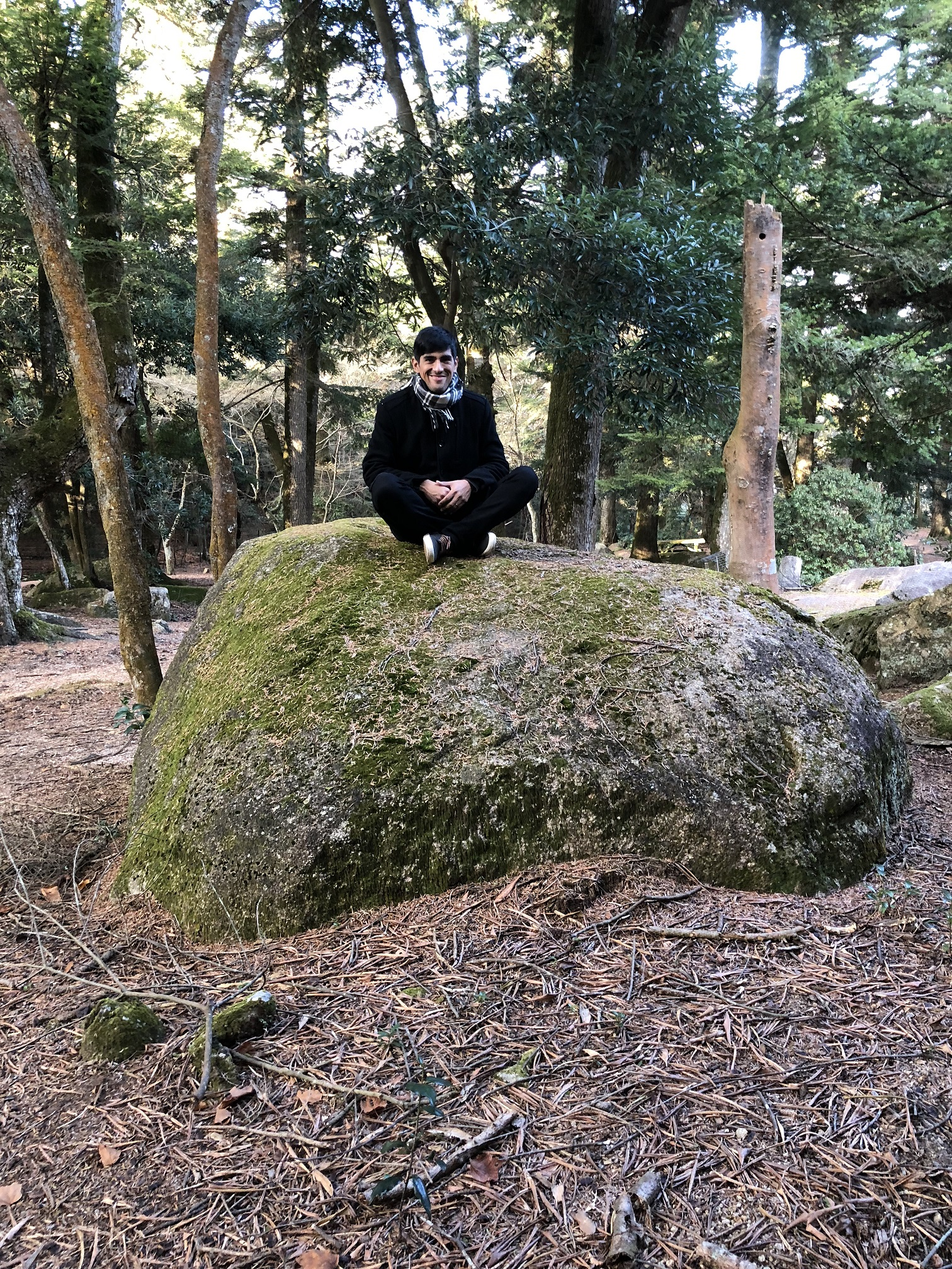
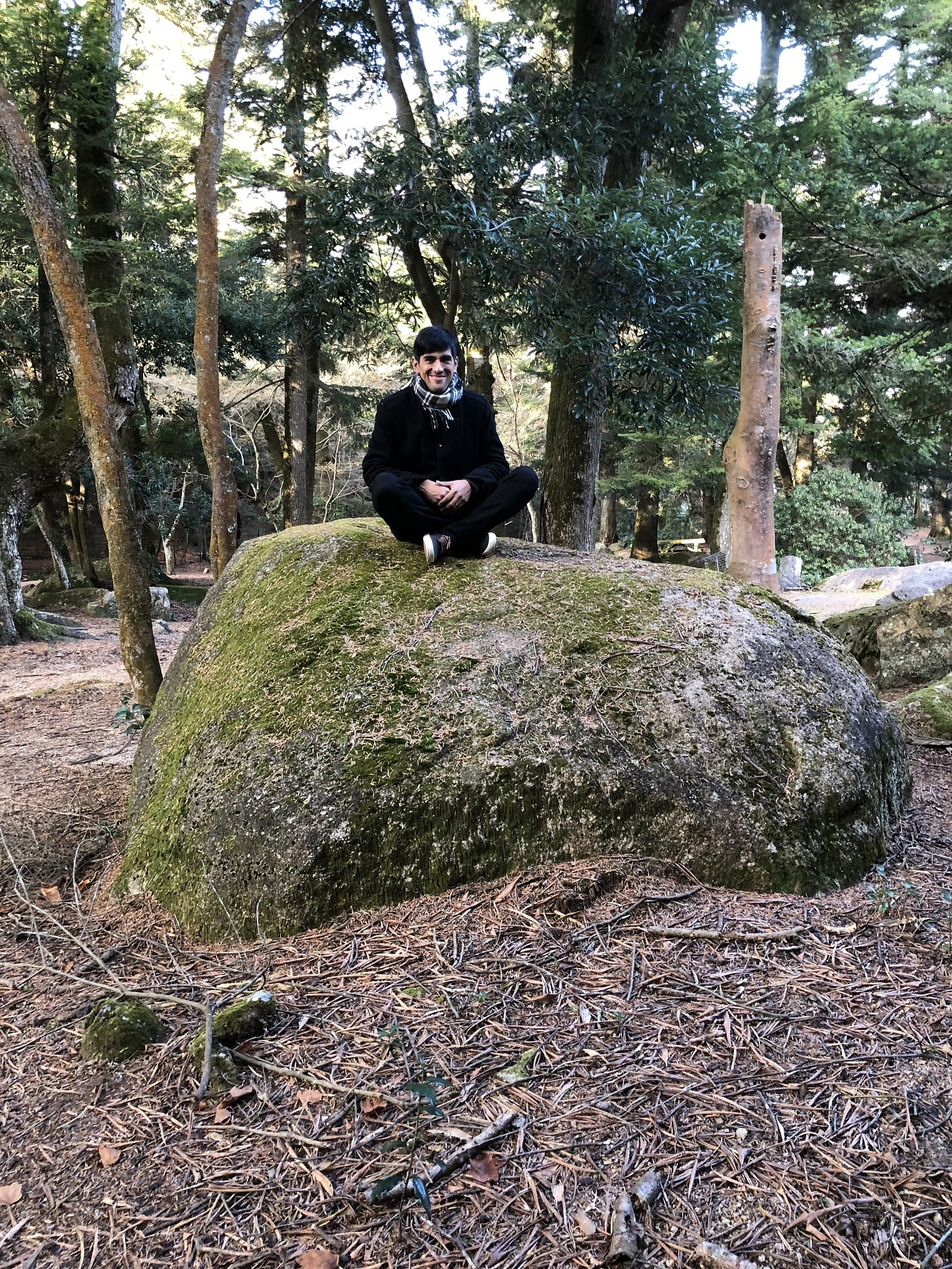
se baja calidad fotos

diff --git a/pages/ciudades_turisticas.html b/pages/ciudades_turisticas.html
@@ -123,7 +123,7 @@
             </section>
             <!------ mapa y video de la ciudad de toyko-->
             <div class="asideCiudad asideTokyo  propAside">
-                <iframe width="100%" height="100%" src="https://www.youtube.com/embed/cduw3p1_5_g" title="YouTube video player" frameborder="0" allow="accelerometer; autoplay; clipboard-write; encrypted-media; gyroscope; picture-in-picture" allowfullscreen></iframe>
+                <iframe width="100%" height="100%" src="https://www.youtube.com/embed/cduw3p1_5_g" title="YouTube video player" frameborder="0" allow="accelerometer; autoplay; clipboard-write; encrypted-media; gyroscope; picture-in-picture" allowfullscreen loading="lazy"></iframe>
             </div> 
             <div class="asideCiudad mapaTokyo propAside">
                 <iframe src="https://www.google.com/maps/embed?pb=!1m18!1m12!1m3!1d103715.9525740709!2d139.73080054552986!3d35.67395885162015!2m3!1f0!2f0!3f0!3m2!1i1024!2i768!4f13.1!3m3!1m2!1s0x60188b857628235d%3A0xcdd8aef709a2b520!2sciudad%20de%20Tokio%2C%20Tokio%2C%20Jap%C3%B3n!5e0!3m2!1ses-419!2sar!4v1618357465219!5m2!1ses-419!2sar" width="100%" height="100%" style="border:0;" allowfullscreen="" loading="lazy"></iframe>
@@ -148,7 +148,7 @@
             </section>   
             <!------ mapa y video de la ciudad de kyoto-->   
             <div class="asideKyoto asideCiudad  propAside" >                    
-                <iframe width="100%" height="100%" src="https://www.youtube.com/embed/Qjql3rNruOc" title="YouTube video player" frameborder="0" allow="accelerometer; autoplay; clipboard-write; encrypted-media; gyroscope; picture-in-picture" allowfullscreen></iframe>
+                <iframe width="100%" height="100%" src="https://www.youtube.com/embed/Qjql3rNruOc" title="YouTube video player" frameborder="0" allow="accelerometer; autoplay; clipboard-write; encrypted-media; gyroscope; picture-in-picture" allowfullscreen loading="lazy"></iframe>
             </div>
             <div class="asideCiudad mapaKyoto propAside">
                 <iframe src="https://www.google.com/maps/embed?pb=!1m18!1m12!1m3!1d83023.36031670221!2d135.7234129844554!3d34.98567053805247!2m3!1f0!2f0!3f0!3m2!1i1024!2i768!4f13.1!3m3!1m2!1s0x6001a8d6cd3cc3f1%3A0xc0961d366bbb1d3d!2sKioto%2C%20Prefectura%20de%20Kioto%2C%20Jap%C3%B3n!5e0!3m2!1ses-419!2sar!4v1618358462065!5m2!1ses-419!2sar" width="100%" height="100%" style="border:0;" allowfullscreen="" loading="lazy"></iframe>
@@ -173,7 +173,7 @@
             </section>
             <!------ mapa y video de la ciudad de nara-->
             <div class="asideCiudad asideNara propAside">
-                <iframe width="100%" height="100%" src="https://www.youtube.com/embed/fm-eGDHdMro" title="YouTube video player" frameborder="0" allow="accelerometer; autoplay; clipboard-write; encrypted-media; gyroscope; picture-in-picture" allowfullscreen ></iframe>
+                <iframe width="100%" height="100%" src="https://www.youtube.com/embed/fm-eGDHdMro" title="YouTube video player" frameborder="0" allow="accelerometer; autoplay; clipboard-write; encrypted-media; gyroscope; picture-in-picture" allowfullscreen loading="lazy" ></iframe>
             </div>
             <div class="asideCiudad mapaNara propAside">
                 <iframe src="https://www.google.com/maps/embed?pb=!1m18!1m12!1m3!1d52490.475448559075!2d135.79468637641884!3d34.688661264211554!2m3!1f0!2f0!3f0!3m2!1i1024!2i768!4f13.1!3m3!1m2!1s0x600137c578a70cc1%3A0x4afed9b0b9492622!2sNara%2C%20Prefectura%20de%20Nara%2C%20Jap%C3%B3n!5e0!3m2!1ses-419!2sar!4v1618358665984!5m2!1ses-419!2sar" width="100%" height="100%" style="border:0;" allowfullscreen="" loading="lazy"></iframe>
@@ -198,7 +198,7 @@
             </section>
             <!------ mapa y video de la ciudad de miyajima-->
             <div class="asideCiudad asideMiyajima propAside">
-                <iframe width="100%" height="100%" src="https://www.youtube.com/embed/5B62vhTp1ZE" frameborder="0" allow="accelerometer; autoplay; clipboard-write; encrypted-media; gyroscope; picture-in-picture" allowfullscreen></iframe>             
+                <iframe width="100%" height="100%" src="https://www.youtube.com/embed/5B62vhTp1ZE" frameborder="0" allow="accelerometer; autoplay; clipboard-write; encrypted-media; gyroscope; picture-in-picture" allowfullscreen loading="lazy"></iframe>             
             </div>
             <div class="asideCiudad mapaMiyajima propAside">
                 <iframe src="https://www.google.com/maps/embed?pb=!1m18!1m12!1m3!1d41869.39222735664!2d132.2974911228264!3d34.27384837079261!2m3!1f0!2f0!3f0!3m2!1i1024!2i768!4f13.1!3m3!1m2!1s0x355ab6d5f534d6c5%3A0xf6ead312d1a82443!2zMzTCsDE2JzQ2LjgiTiAxMzLCsDE4JzQxLjEiRQ!5e0!3m2!1ses-419!2sar!4v1618359311498!5m2!1ses-419!2sar" width="100%" height="100%" style="border:0;" allowfullscreen="" loading="lazy"></iframe>
